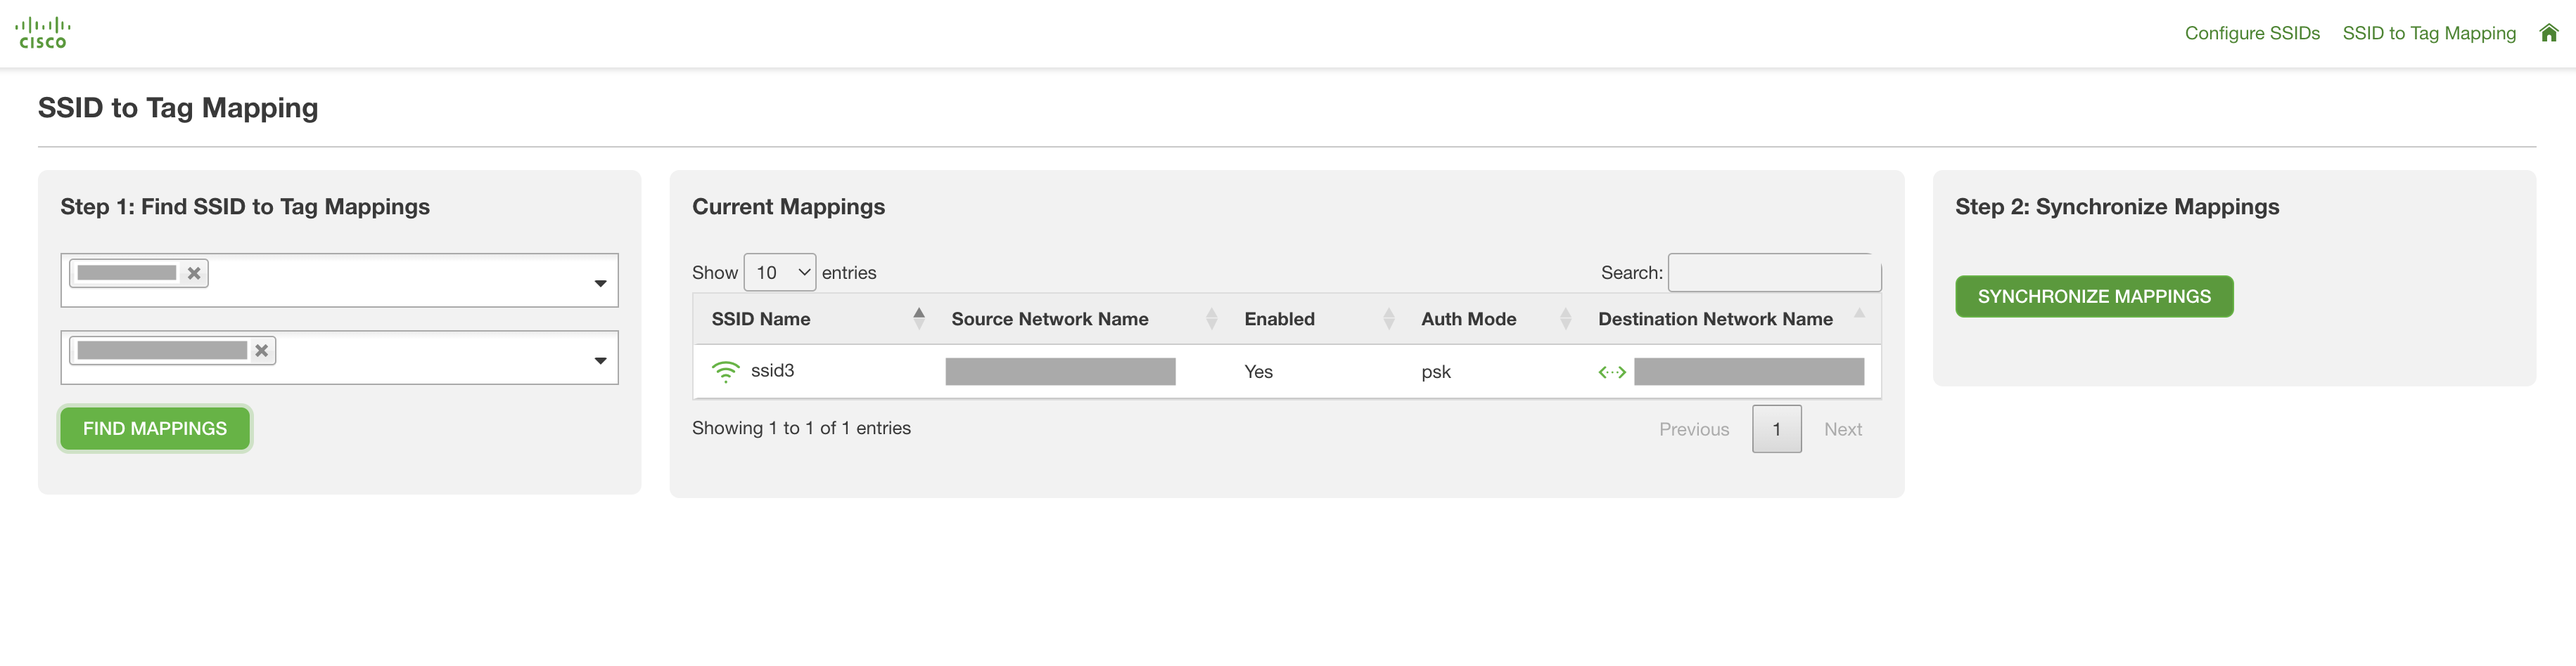
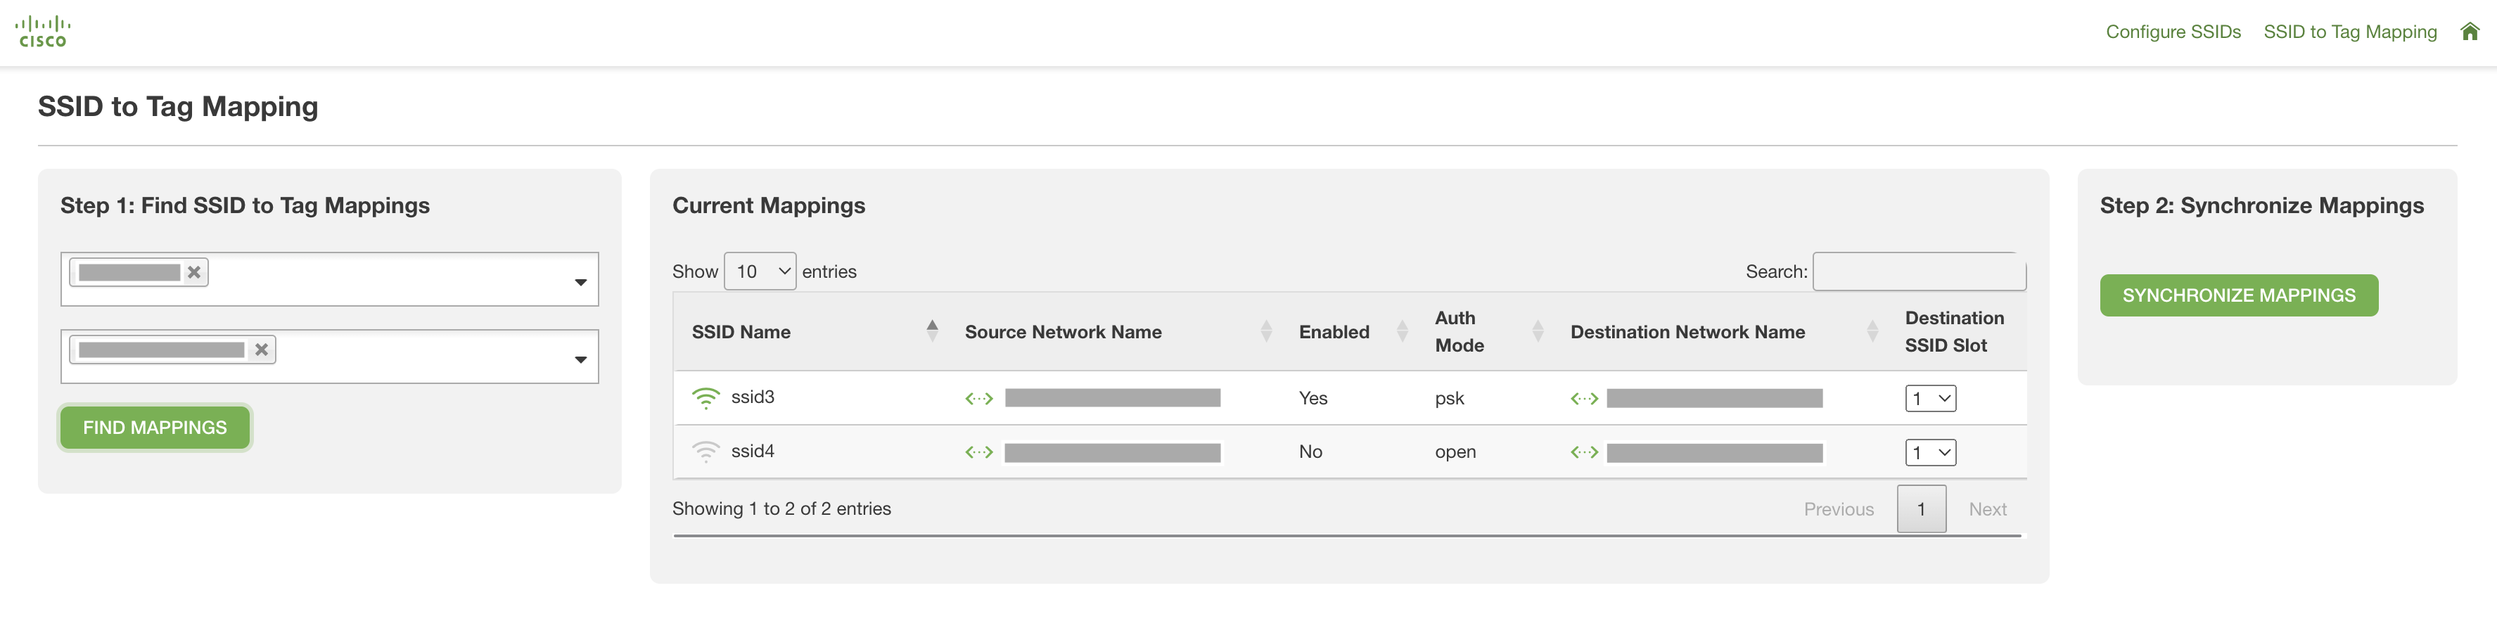
Baselined from internal Repository last_commit:a39a10259ef2fa9aba6154e44425811cab78468a

diff --git a/src/templates/ssidToTag.html b/src/templates/ssidToTag.html
@@ -57,7 +57,7 @@
             </div>
         </div>
         <!-- Middle Rail -->
-        <div class="col-xl-6 col-md-4">
+        <div class="col-xl-7 col-md-4">
             <div class="panel panel--loose panel--raised base-margin-bottom">
             <h2 class="subtitle">Current Mappings</h2>
             <div class="section">
@@ -70,6 +70,7 @@
                                 <th class="hidden-md-down">Enabled</th>
                                 <th class="hidden-md-down">Auth Mode</th>
                                 <th class="hidden-md-down">Destination Network Name</th>
+                                <th class="hidden-md-down">Destination SSID Slot</th>
                             </tr>
                         </thead>
                         <tbody>
@@ -81,7 +82,7 @@
             </div>
         </div>
         <!-- Right Rail -->
-        <div class="col-xl-3 col-md-4">
+        <div class="col-xl-2 col-md-4">
             <div class="panel panel--loose panel--raised base-margin-bottom">
                 <h2 class="subtitle">Step 2: Synchronize Mappings</h2>
                 <div class="section">
@@ -187,9 +188,10 @@
             columnDefs: [
                 { width: '20%', targets: 0 },
                 { width: '25%', targets: 1 },
-                { width: '15%', targets: 2 },
-                { width: '15%', targets: 3 },
-                { width: '25%', targets: 4 }
+                { width: '10%', targets: 2 },
+                { width: '10%', targets: 3 },
+                { width: '25%', targets: 4 },
+                { width: '10%', targets: 5, orderable: false }
             ],
             createdRow: function(row, data, dataIndex) {
                 // Add a class or style to the leftmost cell in each row
@@ -220,14 +222,22 @@
                     // Clear existing table content
                     dataTable.clear()
 
+                    // Create SSID Drop Down
+                    var dropdownHtml = '<select>';
+                    for (var j = 1; j <= 16; j++) {
+                        dropdownHtml += '<option value="' + j + '"' + '>' + j + '</option>';
+                    }
+                    dropdownHtml += '</select>';
+
                     // Iterate through the data and append rows to the table
                     for (let i = 0; i < data.length; i++) {
                         dataTable.row.add([
                             (data[i].enabled ? '<span class="icon-wifi icon-size-20 half-margin-right text-success"></span>' : '<span class="icon-wifi icon-size-20 half-margin-right text-light"></span>') + data[i].ssid_name,
-                            data[i].source_network,
+                            '<span class="icon-ethernet icon-size-20 half-margin-right text-success"></span>' + data[i].source_network,
                             (data[i].enabled ? 'Yes' : 'No'),
                             data[i].authMode,
-                            '<span class="icon-ethernet icon-size-20 half-margin-right text-success"></span>' + data[i].dest_network
+                            '<span class="icon-ethernet icon-size-20 half-margin-right text-success"></span>' + data[i].dest_network,
+                            dropdownHtml
                         ]).draw(false); // 'draw' with 'false' to retain the current page
                     }
                     // Enable the submit button if data is returned
@@ -242,7 +252,7 @@
         $("#synchronizeButton").on("click", function (e) {
             e.preventDefault();  // Prevent the default form submission
 
-            // display loading panel
+            // Display loading panel
             var html = '<div class="progressbar" data-percentage="0" id="progressBar"><div class="progressbar__fill"></div><div class="progressbar__label">0%</div></div>';
             $('#loading-panel-2').html(html);
 
@@ -250,16 +260,33 @@
             updateProgressBar(0);
             setTimeout(checkProgress, 1000);
 
-            // Get selected values from the Chosen dropdown
-            var selectedOrg = $("#organizations_select").val();
-            var selectedNetworks = $(".network-select-col[id='" + selectedOrg + "-col'] #networks_select").val();
+            var ssid_slots = {}
+            // Iterate through the rows of the DataTable
+            $('#mappingTable').DataTable().rows().every(function (rowIdx, tableLoop, rowLoop) {
+                var ssidName = $(this.node()).find('td:eq(0)').text();
+                var ssidSlot = $(this.node()).find('td:eq(5) select').val(); // Get the SSID name from the first column
 
-            // Update the hidden inputs in the second form
-            $("input[name='organizations_select']").val(selectedOrg);
-            $("input[name='networks_select']").val(selectedNetworks);
+                // Add the selected value and SSID name to the object
+                ssid_slots[ssidName] = ssidSlot;
+            });
 
             // Submit the form
-            document.synchronize.submit();
+            $.ajax({
+                url: '/ssid_to_tag',
+                method: 'POST',
+                data: {
+                    form_data: $('#mappingForm').serialize(),
+                    ssid_slots: JSON.stringify(ssid_slots)
+                },
+                success: function(response) {
+                    // Handle success
+                    console.log(response);
+                },
+                error: function(error) {
+                    // Handle error
+                    console.error('Error submitting form', error);
+                }
+            });
         });
    })
 

diff --git a/src/app.py b/src/app.py
@@ -322,15 +322,16 @@ def get_ap_ssids(org_id, net_id, ssids):
     return network_ssids
 
 
-def configure_net_ssids(net_id, ssid_config):
+def configure_net_ssids(net_id, ssid_config, ssid_slot):
     """
     Configure an SSID in the network
     :param net_id: Network ID
     :param ssid_config: SSID config to apply to the network
+    :param ssid_slot: which SSID to configure (slots 0-15)
     :return: Boolean value indicating whether the SSID was successfully configured
     """
     global display_errors
-    ssid_config["number"] = 3  # the SSID configured will always be the 4th SSID (0-based index)
+    ssid_config["number"] = ssid_slot - 1
     ssid_num = ssid_config.pop("number")
     try:
         response = dashboard.wireless.updateNetworkWirelessSsid(net_id, ssid_num, **ssid_config)
@@ -477,12 +478,15 @@ def ssid_to_tag():
         display_errors.clear()
 
         # Obtain selected org and selected network(s)
-        selected_org = request.form.get('organizations_select')
-        networks_list = request.form.get('networks_select')
-        networks_list = networks_list.split(',')
+        form_data = request.form.get('form_data')
+        form_data = parse_qs(form_data, keep_blank_values=True)
+
+        # Obtain SSID to slot Mapping table
+        ssid_to_slot = request.form.get('ssid_slots')
+        ssid_to_slot = json.loads(ssid_to_slot)
 
         # Get SSID to Tag Mapping Data (don't apply mappings yet!)
-        ssid_dict, network_to_ssids = ssid_to_tag_mapping(selected_org, networks_list)
+        ssid_dict, network_to_ssids = ssid_to_tag_mapping(form_data['organizations_select'][0], form_data['networks_select'])
 
         # Calculate progress increment (100 / length floored)
         progress_inc = 100 / float(sum(len(value) for value in network_to_ssids.values()))
@@ -491,8 +495,14 @@ def ssid_to_tag():
             logger.info(f"Configuring the SSIDs of the {networkIDtoNameMapping[net_id]} network")
             for ssid_name in network_to_ssids[net_id]:
                 ssid = ssid_dict[ssid_name]
+
+                # Get SSID Slot (otherwise default to slot 1)
+                ssid_slot = 1
+                if ssid_name in ssid_to_slot:
+                    ssid_slot = int(ssid_to_slot[ssid_name])
+
                 # Apply SSID to target network
-                configure_net_ssids(net_id, ssid)
+                configure_net_ssids(net_id, ssid, ssid_slot)
                 progress += progress_inc
 
         progress = 100

diff --git a/README.md b/README.md
@@ -80,6 +80,7 @@ The remaining pages and workflows are summarized below.
 ![ssid_to_tag.png](IMAGES/ssid_to_tag.png)
 
 * Map SSIDs to AP's with a tag matching the name of the SSID. Once an organization and one or more networks are selected, AP's in the selected networks reveal their tags, and any SSID with a name matching the tag within the Meraki Org is applied to the AP.
+* You must select the SSID slot in each destination network (to avoid overwriting existing SSIDs by accident)
 
 **Note**: If multiple SSIDs share the same name, the SSID configuration in the first alphabetical network name will be applied (ex: ssid3 in 'Network A' over 'ssid3' in 'Network B')
 
